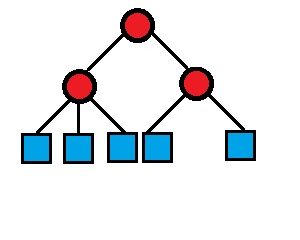
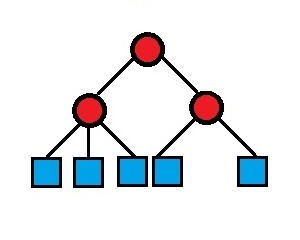
modi

diff --git a/_posts/2014-1-8-Statistics-learning-decision-tree.md b/_posts/2014-1-8-Statistics-learning-decision-tree.md
@@ -5,16 +5,15 @@ description: ""
 category: 
 tags: [Statistics]
 ---
-#Decision Tree#
 ##Intoduction##
 Classification Decision Tree model is a tree structure for classifing the sample data. Decision Tree consists of nodes and directed edges. Also, there are two types of node, internal node and leaf node.
 
-By using the decision tree, from the root node, we test some characteristics. According to the result, we allocate the sample to the son node. So every son node denotes the value of the corresponding  characteristic. Therefore, we can test and allocate the sample recursively until we arrive at the leaf node.
+By using the decision tree, from the root node, we test some characteristics. According to the result, we allocate the sample to the son node. So every son node denotes the value of the corresponding characteristic. Therefore, we can test and allocate the sample recursively until we arrive at the leaf node.
 
 The picture below is a sketch map of decision tree. The circles are internal nodes and the squares denotes leaf nodes.
 
 <center>
-<img src="/assets/decisiontree.jpg" width="300" height="240" align="center">
+<img src="/assets/decisiontree.jpg" width="400" height="360" align="center">
 </center>
 
 Obviously, we could regard the decision tree as a set of if-then principle. Every route connecting the root node and leaf node has a term with if-then structure. Moreover, this structure is complete and muturally-exclisive, which means each sample is covered by one and only route or principle.
@@ -24,66 +23,12 @@ Giving the training set
 
 `\[ D=\{(x_{1},y_{1}),(x_{2},y_{2}),...,(x_{N},y_{N})\}\]`
 
-and, `\( x_{i}=(x_{i}^{(1)},x_{i}^{(2)},...,x_{i}^{(n)})^{T}\)`  
+and, `\( x_{i}=(x_{i}^{(1)},x_{i}^{(2)},...,x_{i}^{(n)})^{T}\)`  is the input sample set, `\( y_{i} \in \{1,2,...,K\} \)`is the symbol of the class `\( i=1,2,...,N \)`, N is the sample capacity. The purpose of learning is to construct a decision tree model according to the given training set, which could classify the sample correctly.
    
-##Example2(Binomial Distribution)##
-First we can see that the two parameters satisfy the following expression( for B(n,p) )：       
+##How to select the characteristic##
+###Example(Loan or Not)###
+<center>
+<img src="/assets/decisiontree2.jpg" width="400" height="360" align="center">
+</center>
 
-we need the funciton to compute the moment.       
 
-	moment <-function(para)      
-	{        
-	fun<-c(para[1]*para[2]-M1,para[1]*para[2]-para[1]*para[2]^2-M2)      
-	Jacobi<-matrix(c(para[2],para[1],para[2]-para[2]^2,para[1]-2*para[1]*para[2]),nrow=2,byrow=T)      
-	list(fun=fun,Jacobi=Jacobi)      
-	}
-	
-And the Newton method to solve the equation.   
-  
-	Newton<-function (fun, x, ep=1e-5,it_max=100)        
-	{        
-	index<-0; k<-1        
-	while (k<=it_max){        
-	x1 <- x; obj <- fun(x);        
-	x <- x - solve(obj$J, obj$f);        
-	norm <- sqrt((x-x1) %*% (x-x1))        
-	if (norm<ep){        
-	index<-1; break        
-	}        
-	k<-k+1        
-	}        
-	obj <- fun(x);        
-	list(root=x, it=k, index=index, FunVal= obj$f)        
-	}
-	
-Now we can test this method       
-    
-	x<-rbinom(1000, 10, 0.5); n<-length(x)       
-	M1<-mean(x);M2<-(n-1)/n*var(x)       
-	para_0<-c(5 , 0.2)       
-	Newtons(moment , para_0)       
-	
-#MLE#
-For One-Parameter Distribution, we usually use the logarithm likehood function.       
-We can use the function "optimize()" to compute the MLE of a specific distribution.       
-##Example(Poisson Distribution)##
-For `\( P(\lambda) \)` the logarithm likehood function for `\( X_{1},X_{2}...X_{n} \)` is
-`\[ l_{\lambda}(X)=log(\frac{\lambda^{\sum_{i=1}^{n}x_{i}}e^{-n\lambda}}{\Gamma(x_{1}+1)\Gamma(x_{2}+1)...\Gamma(x_{n}+1)})=-n\lambda+(\sum_{i=1}^{n}x_{i})log(\lambda)-\sum_{i=1}^{n}log(\Gamma(x_{i}+1)) \]`
-
-	n<-100       
-	x<-rpois(n,5)       
-	sum<-sum(x)       
-	Prodgamma<-function(x)       
-	{       
-		prod=1       
-		for(i in 1:length(x))       
-		{       
-			prod=prod*gamma(x[i]+1)       
-		}       
-		return(prod)       
-	}       
-	f<-function(lambda)       
-	{       
-		-n*lambda+sum*log(lambda)-log(Prodgamma(x))       
-	}       
-	optimize(f,c(3,7),maximum=T)       
